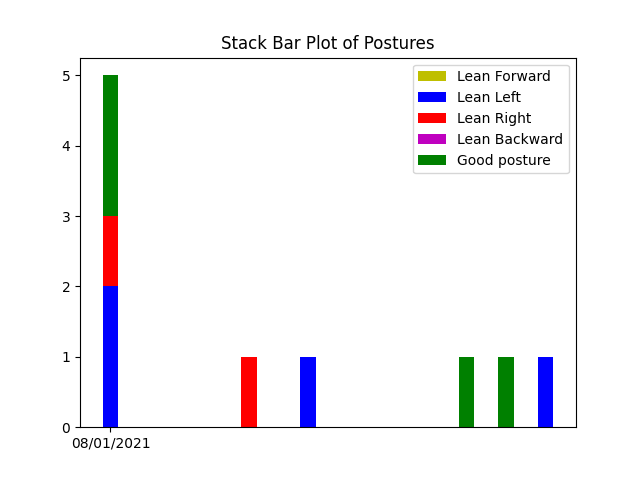
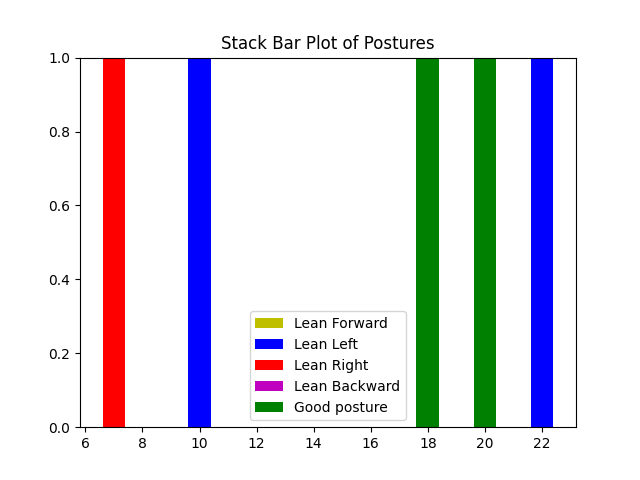
fix matplot and add get_last

diff --git a/server_database/analytics/controller.py b/server_database/analytics/controller.py
@@ -1,7 +1,11 @@
-import matplotlib.pyplot as plt
+# import matplotlib.pyplot as plt
+from matplotlib.figure import Figure
 import numpy as np
 import matplotlib.dates as mdates
 from datetime import datetime
+import io
+import base64
+
 from commons.commons import (
     CLASSIFICATIONS,
     CLASSIFICATION_PROPER,
@@ -14,46 +18,51 @@ STACK_BAR_PLOT_TITLE,
 PIE_PLOT_TITLE
 )
 
-def get_plot(posture, dates):
-    posture
-    # Choose some nice levels
-    levels = np.tile([-3, 3, -2, 2, -1, 1],
-                    int(np.ceil(len(posture)/6)))[:len(posture)]
+# def get_plot(posture, dates):
+#     posture
+#     # Choose some nice levels
+#     levels = np.tile([-3, 3, -2, 2, -1, 1],
+#                     int(np.ceil(len(posture)/6)))[:len(posture)]
 
-    # Create figure and plot a stem plot with the date
-    fig, ax = plt.subplots(figsize=(8.8, 4), constrained_layout=True)
-    ax.set(title="Posture Plot")
+#     # Create figure and plot a stem plot with the date
+#     fig, ax = plt.subplots(figsize=(8.8, 4), constrained_layout=True)
+#     ax.set(title="Posture Plot")
 
-    ax.vlines(dates, 0, levels, color="tab:red")  # The vertical stems.
-    ax.plot(dates, np.zeros_like(dates), "-o",
-            color="k", markerfacecolor="w")  # Baseline and markers on it.
+#     ax.vlines(dates, 0, levels, color="tab:red")  # The vertical stems.
+#     ax.plot(dates, np.zeros_like(dates), "-o",
+#             color="k", markerfacecolor="w")  # Baseline and markers on it.
 
-    # annotate lines
-    for d, l, r in zip(dates, levels, posture):
-        ax.annotate(r, xy=(d, l),
-                    xytext=(-3, np.sign(l)*3), textcoords="offset points",
-                    horizontalalignment="right",
-                    verticalalignment="bottom" if l > 0 else "top")
+#     # annotate lines
+#     for d, l, r in zip(dates, levels, posture):
+#         ax.annotate(r, xy=(d, l),
+#                     xytext=(-3, np.sign(l)*3), textcoords="offset points",
+#                     horizontalalignment="right",
+#                     verticalalignment="bottom" if l > 0 else "top")
 
-    # format xaxis with 4 month intervals
-    ax.xaxis.set_major_locator(mdates.MinuteLocator(interval=4))
-    ax.xaxis.set_major_formatter(mdates.DateFormatter("%b-%d-%Y %H:%M:%S"))
-    plt.setp(ax.get_xticklabels(), rotation=30, ha="right")
+#     # format xaxis with 4 month intervals
+#     ax.xaxis.set_major_locator(mdates.MinuteLocator(interval=4))
+#     ax.xaxis.set_major_formatter(mdates.DateFormatter("%b-%d-%Y %H:%M:%S"))
+#     plt.setp(ax.get_xticklabels(), rotation=30, ha="right")
 
-    # remove y axis and spines
-    ax.yaxis.set_visible(False)
-    ax.spines[["left", "top", "right"]].set_visible(False)
+#     # remove y axis and spines
+#     ax.yaxis.set_visible(False)
+#     ax.spines[["left", "top", "right"]].set_visible(False)
 
-    ax.margins(y=0.1)
-    # plt.show()
-    plt.savefig("analytics.png")
+#     ax.margins(y=0.1)
+#     # plt.show()
+#     plt.savefig("analytics.png")
 
 '''
 Given a dict where keys are the dates/hour and values are the count of the types of postures in that day/hour
 Plot a stack bar plot
 Save it into a png
 '''
-def get_stack_bar_plot(sum_dict, path):
+# https://stackoverflow.com/questions/38061267/matplotlib-graphic-image-to-base64
+# https://pretagteam.com/question/fast-conversion-of-matplotlib-charts-into-base64-string-representation-or-other-serving-method-of-charts-in-flask
+def get_stack_bar_plot(sum_dict):
+    fig = Figure()
+    ax = fig.subplots()
+
     x = sum_dict.keys()
     y0 = np.array([item[0] for item in sum_dict.values()])
     y1 = np.array([item[1] for item in sum_dict.values()])
@@ -61,14 +70,20 @@ def get_stack_bar_plot(sum_dict, path):
     y3 = np.array([item[3] for item in sum_dict.values()])
     y4 = np.array([item[4] for item in sum_dict.values()])
     order = [y0, y1, y2, y3, y4]
-    plt.bar(x, y0, color='y')
-    plt.bar(x, y1, bottom=order[0], color='b')
-    plt.bar(x, y2, bottom=sum(order[:2]), color='r')
-    plt.bar(x, y3, bottom=sum(order[:3]), color='m')
-    plt.bar(x, y4, bottom=sum(order[:4]), color='g')
-    plt.title(STACK_BAR_PLOT_TITLE)
-    plt.legend([CLASSIFICATION_ENUM_TO_NAME[classification] for classification in CLASSIFICATIONS])
-    plt.savefig(path)
+    ax.bar(x, y0, color='y')
+    ax.bar(x, y1, bottom=order[0], color='b')
+    ax.bar(x, y2, bottom=sum(order[:2]), color='r')
+    ax.bar(x, y3, bottom=sum(order[:3]), color='m')
+    ax.bar(x, y4, bottom=sum(order[:4]), color='g')
+    ax.set_title(STACK_BAR_PLOT_TITLE)
+    ax.legend([CLASSIFICATION_ENUM_TO_NAME[classification] for classification in CLASSIFICATIONS])
+
+    my_stringIObytes = io.BytesIO()
+    fig.savefig(my_stringIObytes, format='png')
+    my_stringIObytes.seek(0)
+    # my_base64_pngData = base64.b64encode(my_stringIObytes.read()).decode("utf-8")
+    my_base64_pngData = base64.b64encode(my_stringIObytes.getvalue()).decode("utf-8")
+    return my_base64_pngData
 
 # https://www.youtube.com/watch?v=cKMEL9xgq2I
 '''
@@ -130,10 +145,21 @@ Plot a pie chart
 
 Note: The dict passed in must have values where the classifation is in the same sequence as in CLASSIFICATIONS
 '''
-def get_pie_plot(sum_dict, path):
+# https://stackoverflow.com/questions/38061267/matplotlib-graphic-image-to-base64
+# https://pretagteam.com/question/fast-conversion-of-matplotlib-charts-into-base64-string-representation-or-other-serving-method-of-charts-in-flask
+def get_pie_plot(sum_dict):
+    fig = Figure()
+    ax = fig.subplots()
+
     res_dict = get_sum(sum_dict)
     myexplode = [0.2 if i == CLASSIFICATION_PROPER else 0 for i in CLASSIFICATIONS]
-    plt.pie(res_dict.values(), labels = res_dict.keys(), explode = myexplode, autopct='%.1f%%', startangle = 90)
-    plt.title(PIE_PLOT_TITLE)
-    plt.legend(loc='upper left')
-    plt.savefig(path) 
+    ax.pie(res_dict.values(), labels = res_dict.keys(), explode = myexplode, autopct='%.1f%%', startangle = 90)
+    ax.set_title(PIE_PLOT_TITLE)
+    # ax.legend(loc='upper left')
+    
+    my_stringIObytes = io.BytesIO()
+    fig.savefig(my_stringIObytes, format='png')
+    my_stringIObytes.seek(0)
+    # my_base64_pngData = base64.b64encode(my_stringIObytes.read()).decode("utf-8")
+    my_base64_pngData = base64.b64encode(my_stringIObytes.getvalue()).decode("utf-8")
+    return my_base64_pngData

diff --git a/server_database/app.py b/server_database/app.py
@@ -2,9 +2,10 @@ from flask import Flask , render_template, jsonify, request, redirect, url_for, 
 from flask_sqlalchemy import SQLAlchemy
 from commons.commons import CLASSIFICATION_ENUM_TO_NAME
 import datetime
+import numpy as np
 
 from analytics.controller import(
-get_plot,
+# get_plot,
 get_stack_bar_plot,
 # get_advice,
 get_sum,
@@ -39,8 +40,8 @@ from commons.commons import (
 app = Flask(__name__)
 
 app.config['SQLALCHEMY_TRACK_MODIFICATIONS'] = False
-app.config['SQLALCHEMY_DATABASE_URI'] = 'sqlite:///User.sqlite3'
-# app.config['SQLALCHEMY_DATABASE_URI'] = 'postgres://mfujthfmebgsad:39eadddca0737a0aefaf2c00568fcb6bcd96342f00d8dfcbe1e9fc82811c6c07@ec2-3-230-149-158.compute-1.amazonaws.com:5432/d6gkgi2oa7pokv'
+# app.config['SQLALCHEMY_DATABASE_URI'] = 'sqlite:///User.sqlite3'
+app.config['SQLALCHEMY_DATABASE_URI'] = 'postgres://mfujthfmebgsad:39eadddca0737a0aefaf2c00568fcb6bcd96342f00d8dfcbe1e9fc82811c6c07@ec2-3-230-149-158.compute-1.amazonaws.com:5432/d6gkgi2oa7pokv'
 
 db = SQLAlchemy(app)
 
@@ -60,7 +61,12 @@ class User(db.Model):
 		self.name = name
 		self.timecollect = timecollect
 		self.classification = classification
-		
+
+	def get_str(self):
+		s = "Name: " + self.name + "\n" +\
+			"Time: " + str(self.timecollect) + "\n" +\
+			"Classification: " + str(self.classification)
+		return s
 
 # Control will come here and then gets redirect to the index function
 @app.route("/")
@@ -160,8 +166,8 @@ def get_stack_bar_plot_date():
 			result[key] = [result[key].count(classification) for classification in CLASSIFICATIONS]
 
 		# Saves a stack bar plot to the path specified
-		get_stack_bar_plot(result, STACK_BAR_PLOT_DATE_PATH)
-		payload = get_base64string_from_img_path(STACK_BAR_PLOT_DATE_PATH)
+		payload = get_stack_bar_plot(result)
+		# payload = get_base64string_from_img_path(STACK_BAR_PLOT_DATE_PATH)
 		# advice = get_advice(result)
 
 		# # Sends a dict of 
@@ -218,8 +224,8 @@ def get_stack_bar_plot_date_bad():
 			result[key] = [result[key].count(classification) for classification in CLASSIFICATIONS]
 
 		# Saves a stack bar plot to the path specified
-		get_stack_bar_plot(result, STACK_BAR_PLOT_DATE_BAD_PATH)
-		payload = get_base64string_from_img_path(STACK_BAR_PLOT_DATE_BAD_PATH)
+		payload = get_stack_bar_plot(result)
+		# payload = get_base64string_from_img_path(STACK_BAR_PLOT_DATE_BAD_PATH)
 		# advice = get_advice(result)
 
 		# # Sends a dict of 
@@ -275,9 +281,9 @@ def get_stack_bar_plot_hour():
 			result[key] = [result[key].count(classification) for classification in CLASSIFICATIONS]
 
 		# Saves a stack bar plot to the path specified
-		get_stack_bar_plot(result, STACK_BAR_PLOT_HOUR_PATH)
+		payload = get_stack_bar_plot(result)
 
-		payload = get_base64string_from_img_path(STACK_BAR_PLOT_HOUR_PATH)
+		# payload = get_base64string_from_img_path(STACK_BAR_PLOT_HOUR_PATH)
 	return payload
 
 '''
@@ -319,9 +325,9 @@ def get_stack_bar_plot_hour_all():
 			result[key] = [result[key].count(classification) for classification in CLASSIFICATIONS]
 
 		# Saves a stack bar plot to the path specified
-		get_stack_bar_plot(result, STACK_BAR_PLOT_HOUR_ALL_PATH)
+		payload = get_stack_bar_plot(result)
 
-		payload = get_base64string_from_img_path(STACK_BAR_PLOT_HOUR_ALL_PATH)
+		# payload = get_base64string_from_img_path(STACK_BAR_PLOT_HOUR_ALL_PATH)
 	return payload
 
 '''
@@ -368,9 +374,9 @@ def get_stack_bar_plot_hour_bad():
 			result[key] = [result[key].count(classification) for classification in CLASSIFICATIONS]
 
 		# Saves a stack bar plot to the path specified
-		get_stack_bar_plot(result, STACK_BAR_PLOT_HOUR_BAD_PATH)
+		payload = get_stack_bar_plot(result)
 
-		payload = get_base64string_from_img_path(STACK_BAR_PLOT_HOUR_BAD_PATH)
+		# payload = get_base64string_from_img_path(STACK_BAR_PLOT_HOUR_BAD_PATH)
 	return payload
 
 '''
@@ -413,9 +419,9 @@ def get_stack_bar_plot_hour_bad_all():
 			result[key] = [result[key].count(classification) for classification in CLASSIFICATIONS]
 
 		# Saves a stack bar plot to the path specified
-		get_stack_bar_plot(result, STACK_BAR_PLOT_HOUR_BAD_ALL_PATH)
+		payload = get_stack_bar_plot(result)
 
-		payload = get_base64string_from_img_path(STACK_BAR_PLOT_HOUR_BAD_ALL_PATH)
+		# payload = get_base64string_from_img_path(STACK_BAR_PLOT_HOUR_BAD_ALL_PATH)
 	return payload
 
 # '''
@@ -503,9 +509,9 @@ def get_pie():
 		for key in result:
 			result[key] = [result[key].count(classification) for classification in CLASSIFICATIONS]
 
-		get_pie_plot(result, PIE_PATH)
+		payload = get_pie_plot(result)
 
-		payload = get_base64string_from_img_path(PIE_PATH)
+		# payload = get_base64string_from_img_path(PIE_PATH)
 	return payload
 
 '''
@@ -545,10 +551,41 @@ def get_pie_all():
 		for key in result:
 			result[key] = [result[key].count(classification) for classification in CLASSIFICATIONS]
 
-		get_pie_plot(result, PIE_ALL_PATH)
-
-		payload = get_base64string_from_img_path(PIE_ALL_PATH)
+		payload = get_pie_plot(result)
+		print(payload)
+		# payload = get_base64string_from_img_path(PIE_ALL_PATH)
 	return payload
+
+'''
+Given a lag variable
+Give a string of the data in the database
+'''
+def take_time(elem):
+	return elem.timecollect
+
+@app.route('/get_last', methods = ["GET"])
+def get_last():
+	if request.method == 'GET':
+		name = str(request.args.get("name"))
+		lag = int(request.args.get("lag"))
+		# Filter based on given params
+		entries_to_analyse = User.query.\
+			filter(User.name == name).\
+			all()
+
+		sorted_entries = sorted(entries_to_analyse, key=take_time, reverse=True)
+		entries = sorted_entries[:lag]
+
+		s = ""
+		for user in entries:
+			s += user.get_str() + "\n\n"
+		s = s.rstrip("\n\n")
+
+		# list_of_timestamp = np.array([user.timecollect for user in entries_to_analyse])
+		# idx = np.argpartition(list_of_timestamp, lag)
+		# for i in idx[:lag]:
+		# 	user = entries_to_analyse[i]
+	return s
 
 '''
 Given a name

diff --git a/server_database/client.py b/server_database/client.py
@@ -5,6 +5,7 @@ import datetime
 import time
 from commons import commons
 from random import randint
+import base64
 
 TEST_USER_1 = "Karthig"
 TEST_USER_2 = "Long"
@@ -22,6 +23,7 @@ STACK_BAR_PLOT_HOUR_BAD_ALL_POSTFIX = "get_stack_bar_plot_hour_bad_all"
 PIE_POSTFIX = "get_pie"
 PIE_ALL_POSTFIX = "get_pie_all"
 DELETE_USER_POSTFIX = "delete_user"
+LAST_POSTFIX = "get_last"
 
 def main():
     # test_get_stack_bar_plot_date(TEST_USER_1)
@@ -36,13 +38,21 @@ def main():
     # # time.sleep(10)
     # test_get_stack_bar_plot_hour_bad_all(TEST_USER_1)
     # time.sleep(10)
-    test_get_pie(TEST_USER_1)
+    # test_get_pie(TEST_USER_1)
     # time.sleep(5)
     # test_get_pie_all(TEST_USER_1)
 
     # delete_user(TEST_USER_1)
     # fill_with_1_day_1_user(TEST_USER_1)
     # fill_with_1_year_1_user(TEST_USER_1)
+    test_get_last(TEST_USER_1)
+
+def test_get_last(user):
+    dict_to_enter = {
+        "name" : user,
+        "lag" : 2
+    }
+    requests.get(url + LAST_POSTFIX, params=dict_to_enter)
 
 def test_get_stack_bar_plot_date(user):
     # fill_with_1_day_1_user(user)
